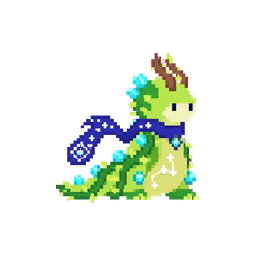
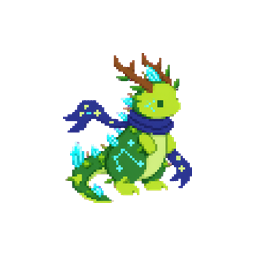
feat(torneio): Soulmons proprios dos 3 desafiantes (4 formas cada) pelo caminho real do app
Template do Oraculo + Higgsfield alpha + chroma do _chroma.js; tournamentNpcSprite liga
cartao e luta ao mesmo PNG por estagio (starter da demo so como reserva).

Changed region(s): [[0.2188, 0.1875, 0.7812, 0.8125]]

diff --git a/src/utils/tournamentNpcs.ts b/src/utils/tournamentNpcs.ts
@@ -20,15 +20,28 @@ import { getSpriteForStage } from './sprites';
 import portraitEspina from '../assets/soulmon/desafiantes/npc-desafiante-espina.png';
 import portraitQuartzo from '../assets/soulmon/desafiantes/npc-desafiante-quartzo.png';
 import portraitMare from '../assets/soulmon/desafiantes/npc-desafiante-mare.png';
-// 26/10/2026 (URGENTE, dono): SOULMON PRÓPRIO por desafiante, gerado pelo MESMO caminho do app (template do Oráculo → Higgsfield alpha → chroma-key do `_chroma.js`, 256²). Por ora SÓ a forma rookie da Espina existe (créditos do Higgsfield acabaram); as outras formas e os outros dois desafiantes usam o `starter` da demo como reserva até a arte sair.
+// 26/10/2026 (URGENTE, dono): SOULMON PRÓPRIO por desafiante, gerado pelo MESMO caminho do app: template do Oráculo (`generateOracleWithFamilies` → `composeSpritePromptVPet`, + a linha "Important: use the exact same style as the references.") → POST `api.higgsfield.ai/marketing-studio/image` (alpha, low, 1k, 1:1, moderation auto, enhance_prompt false) → chroma-key do `functions/api/_chroma.js` → 256². 4 formas por desafiante (rookie/champion/perfeito=ultimate/mega). Forma sem arte → `starter` da demo (reserva).
 // ORIENTAÇÃO: a arte olha para a DIREITA (igual a `novos/*`); NÃO entra em `LEFT_FACING_LINES`, então `spriteUrlFacesLeft` = false e o
 // `BattleStage` espelha o lado do oponente sozinho — o NPC encara o jogador sem caso especial.
 import espinaRookie from '../assets/soulmon/desafiantes/soulmon-espina-rookie.png';
+import espinaChampion from '../assets/soulmon/desafiantes/soulmon-espina-champion.png';
+import espinaUltimate from '../assets/soulmon/desafiantes/soulmon-espina-ultimate.png';
+import espinaMega from '../assets/soulmon/desafiantes/soulmon-espina-mega.png';
+import quartzoRookie from '../assets/soulmon/desafiantes/soulmon-quartzo-rookie.png';
+import quartzoChampion from '../assets/soulmon/desafiantes/soulmon-quartzo-champion.png';
+import quartzoUltimate from '../assets/soulmon/desafiantes/soulmon-quartzo-ultimate.png';
+import quartzoMega from '../assets/soulmon/desafiantes/soulmon-quartzo-mega.png';
+import mareRookie from '../assets/soulmon/desafiantes/soulmon-mare-rookie.png';
+import mareChampion from '../assets/soulmon/desafiantes/soulmon-mare-champion.png';
+import mareUltimate from '../assets/soulmon/desafiantes/soulmon-mare-ultimate.png';
+import mareMega from '../assets/soulmon/desafiantes/soulmon-mare-mega.png';
 
 export type NpcTier = 'rookie' | 'champion' | 'ultimate' | 'mega';
 /** Arte própria por estágio de cada desafiante. */
 export const TOURNAMENT_NPC_ART: Readonly<Record<string, Partial<Record<NpcTier, string>>>> = {
-  'npc-espina': { rookie: espinaRookie },
+  'npc-espina': { rookie: espinaRookie, champion: espinaChampion, ultimate: espinaUltimate, mega: espinaMega },
+  'npc-quartzo': { rookie: quartzoRookie, champion: quartzoChampion, ultimate: quartzoUltimate, mega: quartzoMega },
+  'npc-mare': { rookie: mareRookie, champion: mareChampion, ultimate: mareUltimate, mega: mareMega },
 };
 
 export interface TournamentNpc {

diff --git a/src/utils/tournamentNpcs.sprite.test.ts b/src/utils/tournamentNpcs.sprite.test.ts
@@ -1,15 +1,21 @@
 import { describe, it, expect } from 'vitest';
 import { TOURNAMENT_NPCS, TOURNAMENT_NPC_ART, tournamentNpcSprite } from './tournamentNpcs';
-import { getSpriteForStage, spriteUrlFacesLeft } from './sprites';
+import { spriteUrlFacesLeft } from './sprites';
 
 describe('Soulmon próprio dos desafiantes do Torneio', () => {
-  const espina = TOURNAMENT_NPCS[0];
-  it('a forma com arte própria usa o PNG próprio; as outras formas e os outros NPCs caem no starter da demo', () => {
-    expect(tournamentNpcSprite(espina, 'rookie')).toBe(TOURNAMENT_NPC_ART['npc-espina'].rookie);
-    expect(tournamentNpcSprite(espina, 'champion-power')).toBe(getSpriteForStage('champion-power', espina.starter, 256));
-    for (const n of TOURNAMENT_NPCS.slice(1)) expect(tournamentNpcSprite(n, 'rookie')).toBe(getSpriteForStage('rookie', n.starter, 256));
+  it('cada desafiante tem 4 formas distintas, e estágio desconhecido/ultra cai em mega', () => {
+    for (const n of TOURNAMENT_NPCS) {
+      const art = TOURNAMENT_NPC_ART[n.id];
+      expect(new Set(Object.values(art)).size).toBe(4);
+      expect(tournamentNpcSprite(n, 'rookie')).toBe(art.rookie);
+      expect(tournamentNpcSprite(n, 'champion-power')).toBe(art.champion);
+      expect(tournamentNpcSprite(n, 'ultimate-x')).toBe(art.ultimate);
+      expect(tournamentNpcSprite(n, 'mega-x')).toBe(art.mega);
+      expect(tournamentNpcSprite(n, 'ultra')).toBe(art.mega);
+      expect(tournamentNpcSprite(n, 'qualquer-coisa')).toBe(art.mega);
+    }
   });
   it('a arte olha para a direita (sem caso especial no BattleStage)', () => {
-    expect(spriteUrlFacesLeft(TOURNAMENT_NPC_ART['npc-espina'].rookie!)).toBe(false);
+    for (const n of TOURNAMENT_NPCS) for (const u of Object.values(TOURNAMENT_NPC_ART[n.id])) expect(spriteUrlFacesLeft(u!)).toBe(false);
   });
 });

diff --git a/docs/INVENTARIO-ASSETS.md b/docs/INVENTARIO-ASSETS.md
@@ -410,6 +410,6 @@ Fonte: `D:/Soulmon/_gemini_out/w5-arte-20261019/<lote>/{raw,final}` (Higgsfield 
 - 20/10/2026 (humor): os 5 icones de humor (`src/assets/icons/mood/mood-N-*.png`, 128 px, alfa real) sao a ARTE ENVIADA PELO DONO (gotas em pixel art), fatiada por `tools/mood-dono.py` (idempotente; original em D:/Soulmon/_gemini_out/w13-humor-dono/emotions-original.png). Substitui o tingimento da W13 (`tools/mood-tint.py`, desativado) e a arte L6 de humor.
 
 
-## Soulmons PRÓPRIOS dos desafiantes NPC do Torneio (26/10/2026) — PARCIAL
+## Soulmons PRÓPRIOS dos desafiantes NPC do Torneio (26/10/2026)
 
-Gerados pelo caminho real do app (prompt do `composeSpritePromptVPet` via `generateOracleWithFamilies` + linha final "Important: use the exact same style as the references." → Higgsfield `gpt_image_2` (alpha), chroma do prompt, recorte pelo `functions/api/_chroma.js`, 256²). **Só 1 de 3 saiu:** `src/assets/soulmon/desafiantes/soulmon-espina-rookie.png` (forma rookie da Espina). Os créditos do Higgsfield acabaram (saldo 0,40 cr, cada imagem custa 0,5): Quartzo e Maré, e as demais formas, ficam no `starter` da demo (`tournamentNpcSprite`) e voltam para `docs/ASSETS-A-GERAR.md`. A arte olha para a DIREITA (fora de `LEFT_FACING_LINES`); o `BattleStage` espelha o oponente sozinho. Prompts usados: `E:/Soulmon-assets/beta3-geradas/torneio-npcs/out/prompts.txt`.
+12 PNG 256² com alfa real em `src/assets/soulmon/desafiantes/soulmon-<espina|quartzo|mare>-<rookie|champion|ultimate|mega>.png`. Gerados pelo caminho real do app: prompt do `composeSpritePromptVPet` via `generateOracleWithFamilies` (+ linha final "Important: use the exact same style as the references."), POST `api.higgsfield.ai/marketing-studio/image` (alpha; quality low, 1k, 1:1, moderation auto, enhance_prompt false; sem imagem de referência anexada), chroma do prompt (magenta Espina, verde os outros) recortado pelo `functions/api/_chroma.js`, 256² (maior lado: rookie 150, champion 190, perfeito/ultimate 215, mega 240). Custo: US$ 0,024 por imagem (saldo da conta de API em open.higgsfield.ai ~US$ 29,7 → ver STATUS). `tournamentNpcSprite(npc, estágio)` liga cartão e luta ao mesmo PNG; forma sem arte cai no `starter` da demo. Orientação: arte olha para a DIREITA (fora de `LEFT_FACING_LINES`), o `BattleStage` espelha o oponente. Prompts: `E:/Soulmon-assets/beta3-geradas/torneio-npcs/out/prompts.txt`.

diff --git a/docs/ASSETS-FALTANTES-BETA3.md b/docs/ASSETS-FALTANTES-BETA3.md
@@ -219,4 +219,4 @@ Custo: usar a tabela de `PROMPTS-BETA3.md` §0 (4 cr por imagem 1k high medido; 
 Referências de estilo para os prompts R4: `E:/Soulmon-assets/higgsfield-banco/_meta/ref-2026-09-23/referencias/` (52 arquivos; `ref_1c3efe44.png` confirmado) e `E:/Soulmon-assets/higgsfield-banco/_meta/ref-2026-09-23/folha-referencias.png`. Atenção: `PROMPTS-BETA3.md` P1-08 e P2-02 citam o caminho sem `referencias/` (errado).
 
 
-- **Soulmons dos desafiantes do Torneio**: só a Espina rookie existe (26/10/2026); faltam Quartzo e Maré e as demais formas (créditos do Higgsfield esgotados). Reserva = starter da demo.
+- **Soulmons dos desafiantes do Torneio (Espina, Quartzo, Maré): FEITOS em 26/10/2026**, 4 formas cada (12 sprites, ver `INVENTARIO-ASSETS.md`); o starter da demo só vale como reserva.
